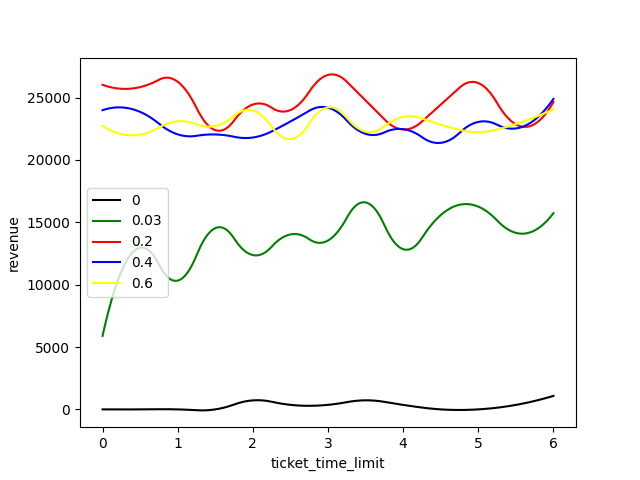
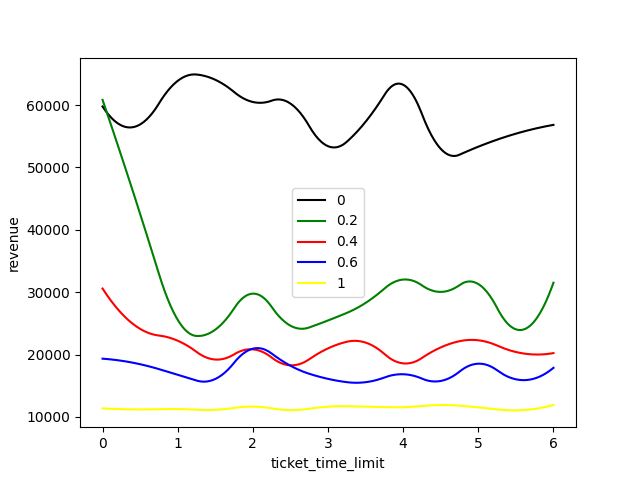
fix: typo in expected revenue counting.

diff --git a/flight.py b/flight.py
@@ -53,7 +53,7 @@ class Flight:
             booking_price = self.ticket_price
             resale_prob = 0.9 - change_rate * self.env.now
             decision_prob = 0.9 - change_rate * self.env.now
-            ticket_revenue_expectation = booking_price * ((1 - Param.confirm_prob) * resale_prob * decision_prob + Param.confirm_prob * decision_prob + resale_prob + (1 - decision_prob))
+            ticket_revenue_expectation = booking_price * ((1 - Param.confirm_prob) * resale_prob * decision_prob + Param.confirm_prob * decision_prob + resale_prob * (1 - decision_prob))
             self.revenue_expected += ticket_revenue_expectation
             if self.log == "DEBUG":
                 print(f"Passenger of flight {self.id} arrived at day {self.env.now} ")

diff --git a/plot.py b/plot.py
@@ -6,7 +6,7 @@ from scipy.interpolate import make_interp_spline
 
 class AirlineRmPlotting:
     def plot_ttl_revenue(routes):
-        confirm_prob_range = [0, 0.03, 0.2, 0.4, 0.6]
+        confirm_prob_range = [0, 0.2, 0.4, 0.6, 1]
         confirm_prob_color = ["black", "green", "red", "blue", "yellow"]
         # Simulate with different confirm prob
         for index in range(len(confirm_prob_color)):
